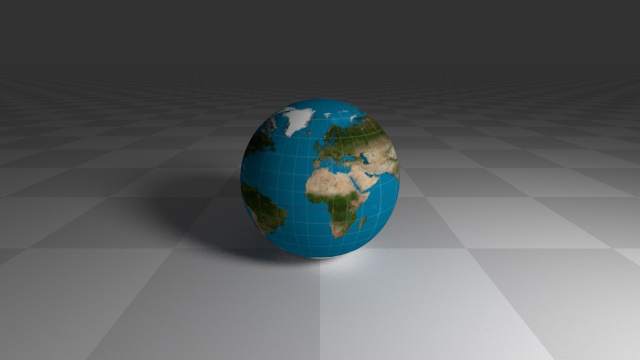
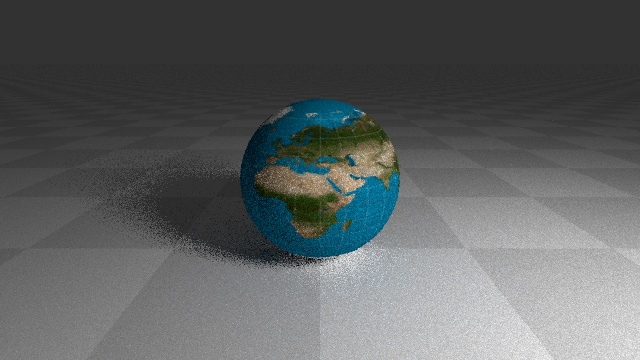
stash

Changed region(s): [[0.375, 0.3056, 0.625, 0.6722], [0.25, 0.6417, 0.5938, 0.7944], [0.2188, 0.6111, 0.25, 0.6417]]

diff --git a/mat/example_test.go b/mat/example_test.go
@@ -1,6 +1,8 @@
 package mat_test
 
 import (
+	"math"
+
 	. "github.com/barnex/bruteray/br"
 	"github.com/barnex/bruteray/doc"
 	. "github.com/barnex/bruteray/mat"
@@ -12,10 +14,11 @@ func ExampleUVCyl() {
 	r := 0.5
 	globe := shape.NewSphere(2*r, nil)
 	globe.Transl(Vec{0, r, 0})
+	th := -30 * Deg
 	uvmap := &UVCyl{
-		P0: globe.Center,
-		Pu: globe.Center.Add(Vec{0, 0, -r}),
-		Pv: globe.Center.Add(Vec{0, r, 0}),
+		P0: Vec{0, 0, 0},
+		Pu: Vec{math.Sin(th), 0, -math.Cos(th)},
+		Pv: Vec{0, 2 * r, 0},
 	}
 	globe.Mat = Diffuse(NewImgTex(img, uvmap))
 	doc.Show(globe)

diff --git a/mat/uvmapper.go b/mat/uvmapper.go
@@ -43,13 +43,13 @@ type UVCyl struct {
 func (c *UVCyl) Map(pos Vec) (u, v float64) {
 	p := pos.Sub(c.P0)
 	pv := c.Pv.Sub(c.P0)
-	v = 0.5*(p.Dot(pv)/pv.Len2()) + 0.5
+	v = (p.Dot(pv) / pv.Len2())
 
-	pu := c.Pu.Sub(c.P0)
+	pu := c.Pu.Sub(c.P0).Normalized()
 
-	pw := pu.Cross(pv)
-	x := p.Dot(pu) / pu.Len2()
-	y := p.Dot(pw) / pw.Len2()
+	pw := pu.Cross(pv).Normalized()
+	x := p.Dot(pu)
+	y := p.Dot(pw)
 	u = 0.5 + (math.Atan2(y, x))/(2*math.Pi)
 	return u, v
 }

diff --git a/doc/example.go b/doc/example.go
@@ -42,7 +42,7 @@ func example(e *Env) {
 	img := raster.MakeImage(1920/3, 1080/3)
 	cam := raster.Camera(1).Transl(0, 1.2, -2.2).Transf(RotX4(18 * Deg))
 	cam.AA = true
-	raster.MultiPass(cam, e, img, 300)
+	raster.MultiPass(cam, e, img, 3)
 	e.Recursion = 3
 
 	raster.MustEncode(img, file)
